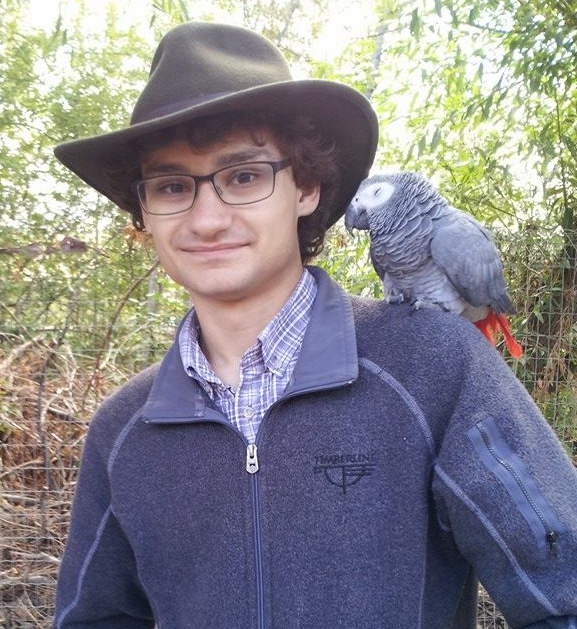
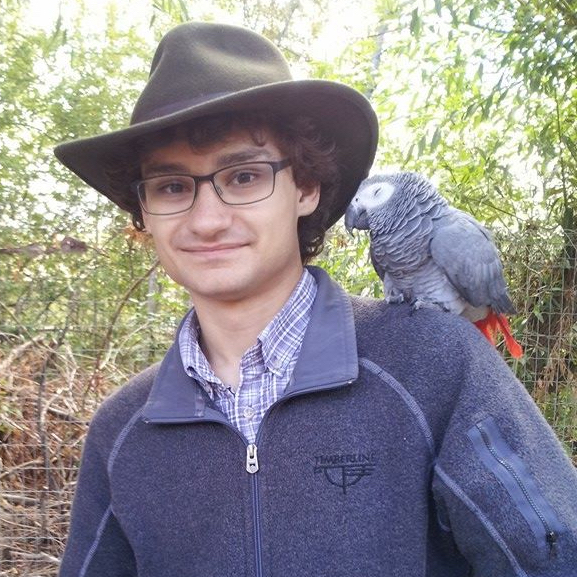
Updated sizing

diff --git a/assets/css/main.css b/assets/css/main.css
@@ -126,7 +126,7 @@ input, select, textarea {
 
 	body, input, select, textarea {
 		font-family: "Source Sans Pro", Helvetica, sans-serif;
-		font-size: 17pt;
+		font-size: 13pt;
 		font-weight: 300;
 		line-height: 1.65;
 	}
@@ -134,7 +134,7 @@ input, select, textarea {
 		@media screen and (max-width: 1680px) {
 
 			body, input, select, textarea {
-				font-size: 14pt;
+				font-size: 12pt;
 			}
 
 		}
@@ -1069,10 +1069,10 @@ input, select, textarea {
 		@media screen and (max-width: 980px) {
 
 			.row {
-				display: flex;
+				/*display: flex;
 				flex-wrap: wrap;
 				box-sizing: border-box;
-				align-items: stretch;
+				align-items: stretch;*/
 			}
 
 				.row > * {
@@ -2704,7 +2704,7 @@ input, select, textarea {
 				}
 
 		footer.major {
-			margin-top: 0;
+			margin-top: 3em;
 		}
 
 	}
@@ -3094,14 +3094,15 @@ input, select, textarea {
 			display: inline-block;
 			margin-left: 4em;
 			padding: 0.1em;
-			/*border-radius: 100%;*/
+			border-radius: 100%;
 			/*border: solid 1px;*/
 		}
 
 			.spotlight .image img {
-				/*display: block;*/
-				/*border-radius: 100%;*/
-				width: 13em;
+				display: block;
+				border-radius: 100%;
+				/*border: solid 1px;*/
+				width: 14em;
 			}
 
 			.spotlight .image2 {
@@ -3114,12 +3115,17 @@ input, select, textarea {
 			.spotlight .image2 img {
 				display: block;
 				/*border-radius: 100%;*/
-				width: 11em;
+				width: 12em;
 				/*margin-right: 3em;*/
 			}
 
 
 		/*@media screen and (max-width: 980px) {
+
+			
+		}*/
+
+		@media screen and (max-width: 736px) {
 
 			.spotlight {
 				-moz-flex-direction: column-reverse;
@@ -3127,6 +3133,10 @@ input, select, textarea {
 				-ms-flex-direction: column-reverse;
 				flex-direction: column-reverse;
 				text-align: left;
+				-moz-align-items: center;
+				-webkit-align-items: center;
+				-ms-align-items: center;
+				align-items: center;
 			}
 
 				.spotlight .content {
@@ -3159,18 +3169,14 @@ input, select, textarea {
 					margin-bottom: 2em;
 				}
 
-		}*/
-
-		@media screen and (max-width: 736px) {
-
 			.spotlight .image {
 				padding: 0.35em;
-				display: none;
+				/*display: none;*/
 			}
 
 				.spotlight .image img {
 					width: 12em;
-					display: none;
+					/*display: none;*/
 
 				}
 
@@ -3292,18 +3298,19 @@ input, select, textarea {
 /* Header */
 
 	#header {
-		padding: 5em 5em 1em 5em ;
+		padding: 5em 5em 3em 5em ;
 		text-align: center;
 	}
 
 		#header h1 {
-			margin: 0 0 0.25em 0;
+			margin: 1em 0 0.25em 0;
 		}
 
 		#header p {
 			font-size: 1.25em;
 			letter-spacing: -0.025em;
 		}
+
 
 		#header.alt {
 			padding: 5.5em 3em 3em 3em ;
@@ -3803,7 +3810,7 @@ input, select, textarea {
 
 		#main > .main {
 			padding: 3em 5em 2em 5em ; /*PANEL MARGINS*/
-			border-top: solid 1px #dddddd;
+			border-bottom: solid 1px #dddddd;
 		}
 
 			#main > .main:first-child {
@@ -3826,7 +3833,7 @@ input, select, textarea {
 					border-bottom-left-radius: 0;
 				}
 
-		@media screen and (max-width: 1280px) {
+		/*@media screen and (max-width: 1280px) {
 
 			#main > .main {
 				padding: 4em 4em 2em 4em ;
@@ -3850,7 +3857,7 @@ input, select, textarea {
 					width: calc(100% + 6em);
 				}
 
-		}
+		}*/
 
 		@media screen and (max-width: 736px) {
 
@@ -3911,27 +3918,32 @@ input, select, textarea {
 		-webkit-flex-wrap: wrap;
 		-ms-flex-wrap: wrap;
 		flex-wrap: wrap;
-		padding: 0em 5em 3em 5em ;
-		width: calc(100% + 2em);
-		margin: 0 0 3em -2em;
+		/*padding: 3em 5em 3em 5em ;
+		width: calc(100% + 2em);*/
+		margin: 4em;
+		/*margin: 0em 0 3em 4em;*/
+		text-align: center;
 	}
 
 		#footer > * {
-			width: calc(50% - 2em);
-			margin-left: 2em;
+			/*width: calc(50% - 2em);
+			margin-left: 2em;*/
+			text-align: center;
 		}
 
-		#footer .copyright {
+		/*#footer .copyright {
 			width: 100%;
 			margin: 2.5em 0 2em 0;
 			font-size: 0.8em;
 			text-align: center;
-		}
+		}*/
 
 		@media screen and (max-width: 1280px) {
 
 			#footer {
-				padding: 4em 4em 2em 4em ;
+				text-align: center;
+				/*padding: 4em 4em 2em 4em ;*/
+				/*margin: 3em 0 3em 4em;*/
 			}
 
 		}
@@ -3939,20 +3951,22 @@ input, select, textarea {
 		@media screen and (max-width: 980px) {
 
 			#footer {
-				padding: 4em 3em 2em 3em ;
+				/*padding: 4em 3em 2em 3em ;
 				display: block;
 				margin: 0 0 3em 0;
-				width: 100%;
+				width: 100%;*/
+				/*margin: 3em 0 3em 4em;*/
+
 			}
 
 				#footer > * {
 					width: 100%;
 					margin-left: 0;
-					margin-bottom: 3em;
+					/*margin-bottom: 3em;*/
 				}
 
 				#footer .copyright {
-					text-align: left;
+					text-align: center;
 				}
 
 		}
@@ -3960,7 +3974,8 @@ input, select, textarea {
 		@media screen and (max-width: 736px) {
 
 			#footer {
-				padding: 3em 2em 1em 2em ;
+				/*margin: 3em 0 3em 4em;*/
+				/*padding: 3em 2em 1em 2em ;*/
 			}
 
 		}
@@ -3968,18 +3983,19 @@ input, select, textarea {
 		@media screen and (max-width: 480px) {
 
 			#footer {
-				padding: 3em 1.5em 1em 1.5em ;
+				/*margin: 3em 0 3em 4em;*/
+				/*padding: 3em 1.5em 1em 1.5em ;*/
 			}
 
 		}
 
-		@media screen and (max-width: 480px) {
+		/*@media screen and (max-width: 480px) {
 
 			#footer {
-				padding: 2.5em 1em 0.5em 1em ;
+				margin: 3em 0 3em 4em;
 			}
 
-		}
+		}*/
 
 /* Wrapper */
 

diff --git a/index.html b/index.html
@@ -29,27 +29,28 @@
 
 			<div id="main">
 
-			<header id="header" class="alt">
-				<div class="spotlight">
+			<header id="header" class="main">
+				<!--<div class="spotlight">-->
 					<!--<span class="image"><img src="images/Ramiller_Photo.jpg" alt="" /></span>-->
 					<div class = "content">
 						<h1>Alex Ramiller</h1>
 						<h3>Ph.D. Candidate in City and Regional Planning</h3>
 						<h3>University of California, Berkeley</h3>
 					</div>
-				</div>
+				<!--</div>-->
 			</header>
+
 
 			<section id="home" class="main">
 				<div class="spotlight">
 					<div class="content">
 						<p>I am a Ph.D. Candidate in City and Regional Planning at the University of California, Berkeley, and researcher at the <a href="https://ternercenter.berkeley.edu/">Terner Center for Housing Innovation</a>.
-							My work primarily focuses on the use of large administrative datasets to study phenomena related to residential mobility, neighborhood change, housing policy, and urban sustainability. I have previously conducted work on topics ranging from the politics of sustainability in Denmark to the impacts of alternative homeownership programs on wealth-building in the United States. My work has been published in journals including Urban Studies, Housing Studies, and Urban Environment. I have also contributed to reports for the U.S. Department of Housing and Urban Development and the San Francisco Federal Reserve Bank.
+							My primary focus is on the use of large administrative datasets to study phenomena related to residential mobility, neighborhood change, and housing policy. I have previously conducted work on topics ranging from the politics of urban sustainability in Denmark to the impacts of alternative homeownership programs on wealth-building in the United States. My work has been published in journals including Urban Studies, Housing Studies, and Urban Environment. I have also contributed to reports for organizations including the U.S. Department of Housing and Urban Development and the Federal Reserve Bank of San Francisco.
 							<br /> <br />
 							I have also consulted on a range of data analysis projects related to housing policy and urban planning, including the development of national pandemic rent debt estimates for PolicyLink and the creation of a displacement monitoring dashboard for the City of Seattle. I am currently working on several projects related to the landscape of multifamily homeownership in the United States and the pursuit of Affirmatively Furthering Fair Housing (AFFH) in California.<br />
 						</p>
 					</div>
-					<span class="image"><img src="images/Ramiller_Photo.jpg" alt="" /></span>
+					<span class="image"><img src="images/Ramiller_Photo.jpg" alt=""/></span>
 				</div>
 			</section>
 
@@ -191,10 +192,8 @@
 		</a></b>
 	</h4>
 	This dashboard brings together demographic and market data to construct dynamic indicators of displacement risk across Seattle neighborhoods. The dashboard was constructed for the City of Seattle Office of Planning and Community Development's <a href="https://population-and-demographics-seattlecitygis.hub.arcgis.com/pages/indicator-projects#tagjumptoedmp">Equitable Development Monitoring Program</a>.
-</br></br>
 </div>
 </ul>
-<hr>
 </section>
 
 <!-- Footer -->
